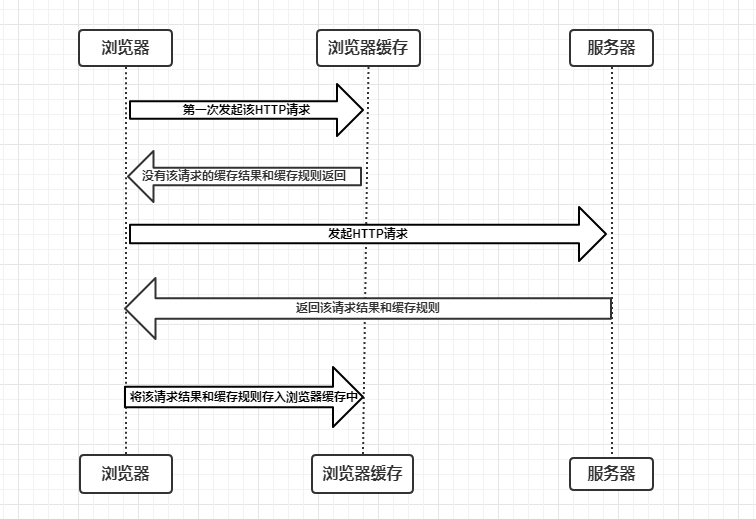
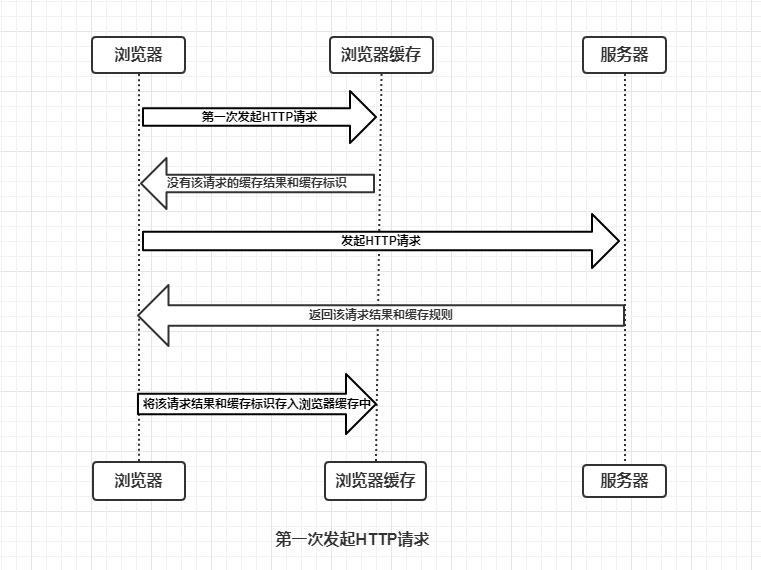
cache

diff --git a/source/_posts/彻底理解浏览器的缓存机制.md b/source/_posts/彻底理解浏览器的缓存机制.md
@@ -11,7 +11,7 @@ tags:
 
 ---
 ## 概述
-因为浏览器是根据HTTP协议的缓存规则进行缓存的，所以在分析浏览器缓存之前，我们先使用图文简单介绍一下HTTP报文，**HTTP报文**分为两种：
+因为浏览器是根据HTTP协议的缓存标识进行缓存的，所以在分析浏览器缓存之前，我们先使用图文简单介绍一下HTTP报文，**HTTP报文**分为两种：
 
 - **HTTP请求(Request)报文**，报文格式为：请求行 -- HTTP头(通用信息头，请求头，实体头) -- 请求报文主体(只有POST才有报文主体)，如下图
 ![Request](img/Request.jpg)
@@ -27,17 +27,48 @@ tags:
 
 ## 缓存过程分析
 
-浏览器与服务器通信的方式是：**浏览器发起HTTP请求 -- 服务器响应HTTP请求**。那么浏览器第一次向服务器发起该请求后拿到请求结果，根据响应报文中HTTP头的缓存规则，决定是否缓存结果，是则将请求结果和缓存规则存入浏览器缓存中，简单的过程如下图：
+浏览器与服务器通信的方式是：**浏览器发起HTTP请求 -- 服务器响应HTTP请求**。那么浏览器第一次向服务器发起该请求后拿到请求结果，根据响应报文中HTTP头的缓存标识，决定是否缓存结果，是则将请求结果和缓存标识存入浏览器缓存中，简单的过程如下图：
 ![cache](img/cache.jpg)
 
 由上图我们可以知道：
-- 浏览器每次发起请求，都会在浏览器缓存中查找该请求的结果以及缓存规则
+- 浏览器每次发起请求，都会在浏览器缓存中查找该请求的结果以及缓存标识
 
-- 浏览器每次拿到返回的请求结果都会将该结果和缓存规则存入浏览器缓存中
+- 浏览器每次拿到返回的请求结果都会将该结果和缓存标识存入浏览器缓存中
 
 以上两点结论就是浏览器缓存机制的关键，只要我们再理解浏览器会如何使用缓存，那么我们就会立刻理解浏览器的整个缓存机制，本文也将围绕着这点进行详细分析。为了方便大家理解，这里我们根据是否需要向服务器重新发起HTTP请求将缓存过程分为两个部分，分别是**强制缓存**和**协商缓存 **。
 
 
 
 ### 强制缓存
-强制缓存就是
+**强制缓存就是浏览器向浏览器缓存查找请求结果和缓存标识的过程**，主要有以下三种情况：
+- 不存在该缓存结果和缓存标识，强制缓存失效，则直接向服务器发起请求（跟第一次发起请求一致），如下图：
+![cache](img/cache1.0.jpg)
+
+- 存在该缓存结果和缓存标识，但该结果已失效，强制缓存失效，则使用协商缓存，如下图
+![cache](img/cache1.1.jpg)
+
+- 存在该缓存结果和缓存标识，且该结果尚未失效，强制缓存生效，直接返回该结果，如下图
+![cache](img/cache1.2.jpg)
+
+>那么强制缓存是通过什么控制缓存结果是否生效和失效的？
+
+当浏览器向服务器发起请求时，服务器会将缓存规则放入响应报文的HTTP头中和请求结果一起返回给浏览器，其中控制强制缓存的主要有两个字段，分别是**Expires**和**Cache-Control**。
+
+#### Expires
+Expires是HTTP/1.0控制网页缓存的字段，其值为服务器返回该请求结果缓存的到期时间，即再次发起该请求时，如果客户端的时间小于Expires的值时，直接使用缓存结果。
+
+>Expires是HTTP/1.0的字段，但是现在浏览器默认使用的是HTTP/1.1，那么在HTTP/1.1中网页缓存还是否由Expires控制？
+
+到了HTTP/1.1，Expire已经被Cache-Control替代，原因在于Expires使用客户端的时间与服务端返回的时间做对比，那么如果客户端与服务端的时间因为某些原因（例如时区不同）发生误差，那么强制缓存则会直接失效，这样的话强制缓存则毫无意义。
+
+#### Cache-Control
+在HTTP/1.1中，Cache-Control是最重要的规则，主要用于控制网页缓存，主要取值为：
+- **public**：所有内容都将被缓存（客户端和代理服务器都可缓存）
+
+- **private**：所有内容只有客户端可以缓存，Cache-Control的默认取值
+
+- **no-cache**：客户端缓存内容，但是使用则需要经过协商缓存来验证是否使用缓存
+
+- **no-store**：所有内容都不会被缓存，即不使用强制缓存，也不使用协商缓存
+
+- **max-age=xxx (xxx is numeric)**：缓存内容将在xxx秒后失效
